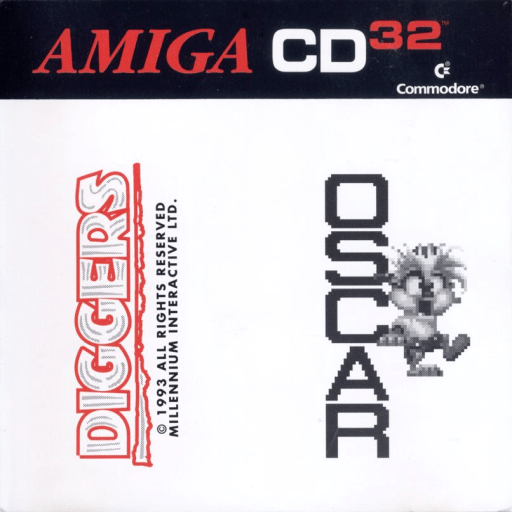
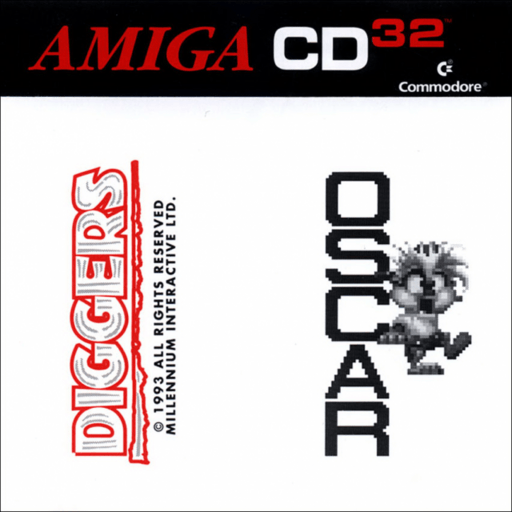
AmigaJay 6-21 added (#9)
* AmigaJay 6-21 - Covers,Titles

* AmigaJay 6-21 Snaps

* Update README.md

diff --git a/README.md b/README.md
@@ -1,27 +1,23 @@
 Hi All!
-The main idea is to add/update the thumb base to match the Redump dat which is a default dat for CD32 games on Retroarch.
-A lot of people complain that games/thumbs don't show up automatically, that's why my plan is to add also the CD32 TOSEC dat to the CD32 database.
 
 REDUMP:
 - naming matches the latest Redump dat
 - original packaging if possible (big box > jewel case)
 - additional real/fake jewel-box covers for people who want to have everything 'squared' (512x512pix)
-- boxarts - high(er) resolution sources and more natural colors (download to compare)
-- titles/snaps added in original resolution (320x256pix x 8bit, probabably 96% of cases)
+- titles/snaps added in original resolution (320x256pix x 8bit - probabably 96% of cases)
 - the thumbset fully works with both Scan Directory (DAT file based scanning) and Manual Scan (create list form the zips in a folder)
 
 TOSEC:
  - database added; naming matches the latest TOSEC-Games ISO/BIN/IMG DATs
- - alternative set of boxarts (512x512); high(er) resolution sources and more natural colors (download to compare)
- - titles/snaps added in original resolution (320x256pix x 8bit, probabably 96% of cases)
+ - alternative set of boxarts (512x512); high resolution sources
+ - titles/snaps added in original resolution (320x256pix x 8bit - probabably 96% of cases)
  - the thumbset fully works with both Scan Directory (DAT file based scanning) and Manual Scan (playlist created form the zips in a folder)
 
 COVERDISCS:
  - thumbset covers both TOSEC-Coverdiscs-ISO dat and coverdiscs from the Redump set
 
-TO DO:
-- some changes to TOSEC CD32 database
-- update the AmigaWHDL dat and add matching thumbs
+AMIGAJAY compilations:
+  - work in progress
 
 In case of any problems/suggestions, please let me know.
 Cheers!
